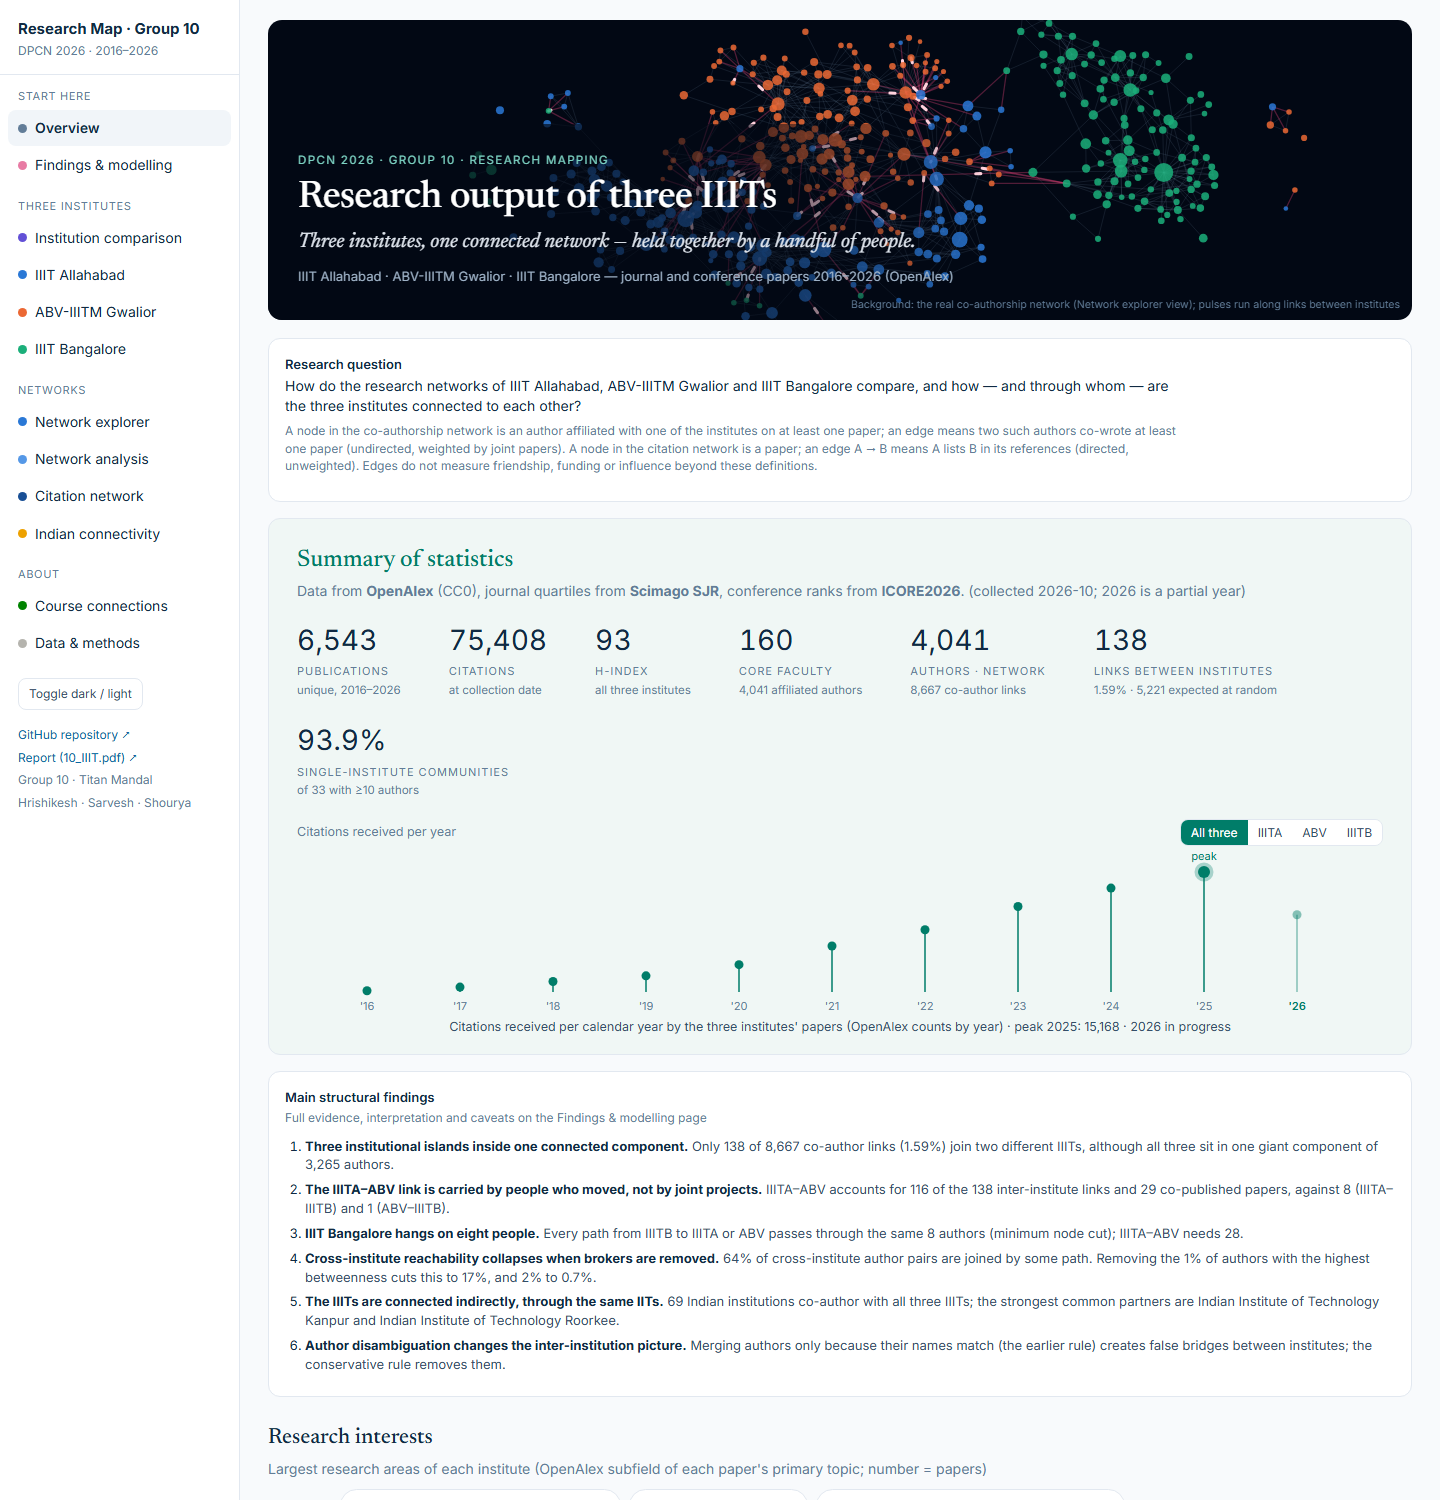
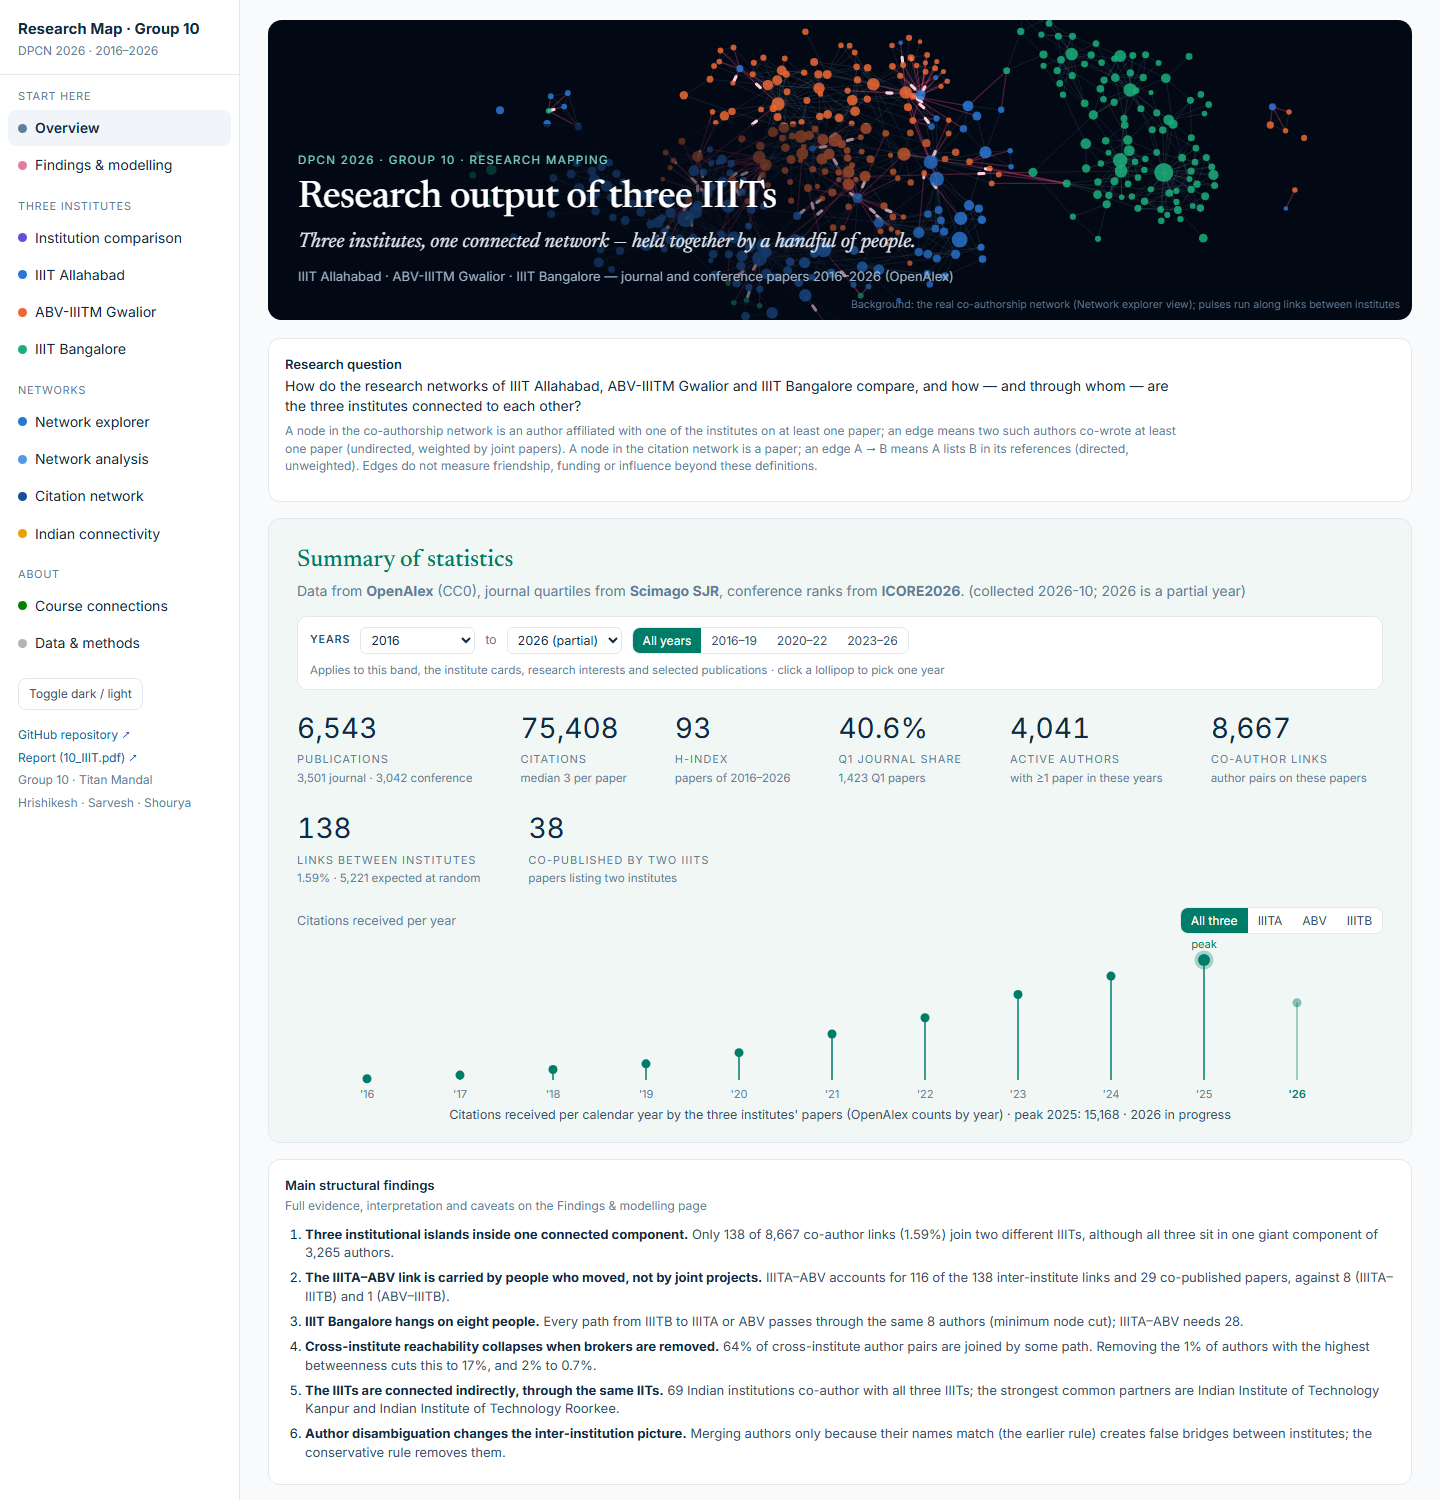
Dashboard: year selector for overview statistics
Overview statistics, institute cards, research-interest chips and the
selected-publications list can be filtered to any year range (From/To,
presets, click a lollipop, or ?years=YYYY-YYYY). Values are recomputed in
the browser from per-paper records; all-years values equal the pipeline
results and year subsets were checked against pandas.

diff --git a/part4_dashboard.py b/part4_dashboard.py
@@ -117,6 +117,31 @@ def publication_list(df, n=10):
     return out
 
 
+def yearly_data(df, adf, nodes, years):
+    """Compact per-paper records so the page can recompute statistics for any
+    year range: [year, institute bitmask, is_conference, is_Q1, citations,
+    [author indices]]. Authors are anonymous indices with their main institute;
+    co-author links are the author pairs of each paper, exactly as in part2."""
+    bit = {i: 1 << k for k, i in enumerate(C.INST_NAMES)}
+    mask = df.groupby("openalex_id")["institution"].apply(lambda s: sum(bit[i] for i in set(s)))
+    ids = sorted(adf["author_id"].unique())
+    idx = {a: k for k, a in enumerate(ids)}
+    main = [C.INST_NAMES.index(nodes[a]["institution"]) if a in nodes else -1 for a in ids]
+    auth = adf.drop_duplicates(["openalex_id", "author_id"]).groupby("openalex_id")["author_id"].apply(
+        lambda s: sorted(idx[a] for a in s)).to_dict()
+    papers = [[int(r.year), int(mask[r.openalex_id]), int(r.type == "conference"),
+               int(r.type == "journal" and r.quartile == "Q1"), int(r.citations), auth.get(r.openalex_id, [])]
+              for r in A.unique_papers(df).itertuples()]
+    subs = {}
+    for inst in C.INST_NAMES:
+        s = df[(df["institution"] == inst) & (df["subfield"] != "")]
+        t = s.groupby(["subfield", "year"]).size().unstack(fill_value=0).reindex(columns=years, fill_value=0)
+        t = t[t.sum(axis=1) >= 5]
+        subs[inst] = {k: [int(v) for v in row] for k, row in t.iterrows()}
+    top = {str(y): publication_list(df[df["year"] == y]) for y in years}
+    return {"papers": papers, "author_main": main, "subfields": subs, "top_by_year": top}
+
+
 def explorer_graph(o, nd):
     """Co-authorship subgraph for the Network Explorer: the most connected
     authors of each institute plus EVERY author with a co-author at another
@@ -243,6 +268,7 @@ def build_data(o):
     D["cites_by_year"] = citations_by_year(df, years)
     D["partner_cards"] = partner_cards(o["indian"])
     D["publications"] = publication_list(df)
+    D["yearly"] = yearly_data(df, adf, o["auth_metrics"].get("nodes", {}), years)
     S = o["structure"]
     D["structure"] = S
     if nodes and S:
@@ -331,6 +357,9 @@ h2.secttl{font-size:22px;margin:26px 0 4px}
 .seg{display:inline-flex;border:1px solid var(--border);border-radius:8px;overflow:hidden}
 .seg button{border:0;background:var(--surface);color:var(--text-2);font:inherit;font-size:12px;padding:4px 10px;cursor:pointer}
 .seg button.on{background:var(--teal,#2a9d8f);color:#fff}
+.yearbar{display:flex;flex-wrap:wrap;align-items:center;gap:8px 10px;margin:14px 0 2px;padding:10px 12px;background:var(--surface);border:1px solid var(--border);border-radius:10px;font-size:12.5px}
+.yearbar .ylab{font-weight:600;color:var(--text-2);letter-spacing:.06em;text-transform:uppercase;font-size:11px}
+.yearbar .ynote{font-size:11.5px;flex-basis:100%}
 /* interest chips */
 .chiprow{display:flex;flex-wrap:wrap;gap:8px;align-items:center;margin-bottom:10px}
 .chiprow .lbl{width:64px;font-size:12px;font-weight:600;color:var(--text-2)}
@@ -465,6 +494,12 @@ BODY = r"""
   <section class="statpanel">
     <h2 class="serif">Summary of statistics</h2>
     <p class="muted">Data from <b>OpenAlex</b> (CC0), journal quartiles from <b>Scimago SJR</b>, conference ranks from <b>ICORE2026</b>. <span id="stat-upd"></span></p>
+    <div class="yearbar" id="yearbar">
+      <span class="ylab">Years</span>
+      <select id="y-from" aria-label="From year"></select><span class="muted">to</span><select id="y-to" aria-label="To year"></select>
+      <span class="seg" id="y-presets"></span>
+      <span class="muted ynote">Applies to this band, the institute cards, research interests and selected publications · click a lollipop to pick one year</span>
+    </div>
     <div class="kpis" id="ov-kpis"></div>
     <div class="lolli-head"><span class="muted">Citations received per year</span><span class="seg" id="lolli-sel"></span></div>
     <svg id="lolli" role="img" aria-label="Citations received per year"></svg>
@@ -488,7 +523,7 @@ BODY = r"""
   </div>
   <div class="card" style="margin-bottom:16px"><h3>Research area breakdown</h3><div class="note">% of each institution's papers per OpenAlex field</div><div class="cw tall"><canvas id="c-fields"></canvas></div></div>
   <h2 class="serif secttl">Selected major publications</h2>
-  <p class="muted" style="margin-bottom:10px">The 10 most-cited papers (OpenAlex citation count at collection date). Authors of the three institutes in bold; ↗ opens the DOI.</p>
+  <p class="muted" style="margin-bottom:10px">The 10 most-cited papers of <b id="pub-yrs"></b> (OpenAlex citation count at collection date). Authors of the three institutes in bold; ↗ opens the DOI.</p>
   <div class="publist" id="publist"></div>
 </section>
 <section class="page" id="p-findings">
@@ -732,11 +767,6 @@ const pct = x => (x*100).toFixed(x<0.01?1:0)+"%";
 function renderOverview(){
   const S = Object.fromEntries(D.summary.map(s=>[s.institution,s]));
   document.getElementById("ov-find").innerHTML=(ST.findings||[]).map(f=>`<li><b>${esc(f.title)}.</b> <span>${esc(f.observation)}</span></li>`).join("")||"<li class='muted'>Run part5b_network_structure.py.</li>";
-  document.getElementById("ov-tiles").innerHTML = INST.map(i=>{
-    const s=S[i]; return `<div class="card tile"><div class="lab"><span class="swatch" style="background:${col(i)}"></span>${i}</div>
-      <div class="val">${fmt(s.papers)} papers</div>
-      <div class="foot">${fmt(s.journal_papers)} journal · ${fmt(s.conference_papers)} conference · ${s.q1_journal_pct}% of journal papers in Q1</div>
-      <div class="foot">${fmt(s.citations)} citations (median ${s.median_citations}) · institutional h-index ${s.h_index} · ${s.core_faculty} core faculty</div></div>`;}).join("");
   chart("c-trend",{type:"line",data:{labels:YEARS,datasets:INST.map(i=>({label:i,
       data:YEARS.map((y,k)=>D.trend[i].journal[k]+D.trend[i].conference[k]),
       borderColor:col(i),backgroundColor:col(i),borderWidth:2,pointRadius:3,pointHoverRadius:5,tension:0,
@@ -748,7 +778,7 @@ function renderOverview(){
   chart("c-fields",{type:"bar",data:{labels:D.fields.labels,datasets:INST.map(i=>({label:i,data:D.fields.values[i],
       backgroundColor:col(i),borderRadius:4,borderSkipped:"start",categoryPercentage:.75,barPercentage:.9}))},
       options:baseOpts({scales:{y:{title:{display:true,text:"% of papers",color:css("--text-2")}}}})});
-  renderKpis(); renderLolli("All"); renderChips(); renderMarquee(); renderPubs();
+  setupYears(); renderMarquee();
   setTimeout(renderHero, 30);
 }
 
@@ -756,19 +786,64 @@ function renderOverview(){
 const initials = n => n.replace(/\(.*?\)/g,"").split(/[\s,&-]+/).filter(w=>w.length>2&&!/^(of|and|the|for)$/i.test(w)).slice(0,3).map(w=>w[0].toUpperCase()).join("");
 const CLUSTER_COL = {"IIT":"#2a78d6","NIT":"#eb6834","IIIT":"#1baf7a","IISER/IISc/NISER":"#6250d6","Central University":"#eda100",
   "State/Private University":"#8a6f3a","Industry":"#e87ba4","Medical":"#b3261e","CSIR":"#008300","Govt/Other Research":"#52514e"};
-function renderKpis(){
-  const all=D.summary.find(s=>s.institution.startsWith("All"))||{}, co=ST.coauthorship||{}, mx=ST.mixing||{};
-  const cs=ST.communities||{};
-  const k=[[fmt(all.papers),"publications","unique, 2016–2026"],[fmt(all.citations),"citations","at collection date"],[all.h_index,"h-index","all three institutes"],
-    [fmt(all.core_faculty),"core faculty",`${fmt(all.affiliated_authors)} affiliated authors`],
-    [fmt(co.nodes),"authors · network",`${fmt(co.edges)} co-author links`],
-    [`${fmt(mx.inter_links_total)}`,"links between institutes",`${mx.inter_share_pct}% · ${fmt(Math.round(mx.inter_links_expected_total))} expected at random`],
-    [(cs.single_institute_communities_pct??"–")+"%","single-institute communities",`of ${cs.communities_10plus} with ≥10 authors`]];
-  document.getElementById("ov-kpis").innerHTML=k.map(([v,l,d])=>`<div><b>${v??"–"}</b><span>${l}</span><small>${d}</small></div>`).join("");
+// ── Year filter (Overview) ─────────────────────────────
+let YR=[YEARS[0],YEARS[YEARS.length-1]], LOLLI="All";
+const isAll=()=>YR[0]===YEARS[0]&&YR[1]===YEARS[YEARS.length-1];
+const hidx=c=>{ const s=c.slice().sort((a,b)=>b-a); let h=0; while(h<s.length&&s[h]>=h+1) h++; return h; };
+const median=c=>{ if(!c.length) return 0; const s=c.slice().sort((a,b)=>a-b), m=s.length>>1; return s.length%2?s[m]:(s[m-1]+s[m])/2; };
+function yearStats(bit){
+  const Y=D.yearly, P=Y.papers.filter(p=>p[0]>=YR[0]&&p[0]<=YR[1]&&(!bit||(p[1]&bit)));
+  const cites=P.map(p=>p[4]), j=P.filter(p=>!p[2]), authors=new Set(), links=new Set(); let inter=0, copub=0;
+  P.forEach(p=>{ const a=p[5]; a.forEach(x=>authors.add(x)); if((p[1]&(p[1]-1))!==0) copub++;
+    for(let i=0;i<a.length;i++) for(let k=i+1;k<a.length;k++){ const key=a[i]*8192+a[k];
+      if(!links.has(key)){ links.add(key); if(Y.author_main[a[i]]!==Y.author_main[a[k]]) inter++; } } });
+  return {n:P.length, j:j.length, c:P.length-j.length, q1:j.filter(p=>p[3]).length, cites, sum:cites.reduce((x,y)=>x+y,0),
+          h:hidx(cites), med:median(cites), authors:authors.size, links:links.size, inter, copub};
+}
+function setupYears(){
+  const f=document.getElementById("y-from"), t=document.getElementById("y-to");
+  const opts=YEARS.map(y=>`<option value="${y}">${y}${y===D.meta.partial_year?" (partial)":""}</option>`).join("");
+  f.innerHTML=opts; t.innerHTML=opts;
+  const presets=[["All years",YEARS[0],YEARS[YEARS.length-1]],["2016–19",2016,2019],["2020–22",2020,2022],["2023–26",2023,2026]];
+  const pre=document.getElementById("y-presets");
+  pre.innerHTML=presets.map(([l,a,b])=>`<button data-a="${a}" data-b="${b}">${l}</button>`).join("");
+  pre.onclick=e=>{ if(e.target.dataset.a) setYears(+e.target.dataset.a,+e.target.dataset.b); };
+  f.onchange=()=>setYears(+f.value,Math.max(+f.value,+t.value)); t.onchange=()=>setYears(Math.min(+f.value,+t.value),+t.value);
   document.getElementById("stat-upd").textContent="(collected "+D.meta.generated.slice(0,7)+"; 2026 is a partial year)";
   document.getElementById("foot-upd").textContent="last updated "+D.meta.generated;
+  const q=(new URLSearchParams(location.search).get("years")||"").match(/^(\d{4})(?:-(\d{4}))?$/);
+  if(q){ const a=+q[1], b=+(q[2]||q[1]); if(YEARS.includes(a)&&YEARS.includes(b)&&a<=b) YR=[a,b]; }
+  setYears(YR[0],YR[1]);
+}
+function setYears(a,b){
+  YR=[a,b]; document.getElementById("y-from").value=a; document.getElementById("y-to").value=b;
+  document.querySelectorAll("#y-presets button").forEach(x=>x.classList.toggle("on",+x.dataset.a===a&&+x.dataset.b===b));
+  renderKpis(); renderInstCards(); renderChips(); renderPubs(); renderLolli(LOLLI);
+}
+const yrLabel=()=>YR[0]===YR[1]?String(YR[0]):`${YR[0]}–${YR[1]}`;
+function renderKpis(){
+  if(!D.yearly){ document.getElementById("ov-kpis").innerHTML="<p class='muted'>Yearly data unavailable.</p>"; return; }
+  const s=yearStats(0), mx=ST.mixing||{}, all=isAll();
+  const k=[[fmt(s.n),"publications",`${fmt(s.j)} journal · ${fmt(s.c)} conference`],
+    [fmt(s.sum),"citations",`median ${s.med} per paper`],[s.h,"h-index",`papers of ${yrLabel()}`],
+    [s.j?(100*s.q1/s.j).toFixed(1)+"%":"–","Q1 journal share",`${fmt(s.q1)} Q1 papers`],
+    [fmt(s.authors),"active authors","with ≥1 paper in these years"],
+    [fmt(s.links),"co-author links","author pairs on these papers"],
+    [fmt(s.inter),"links between institutes",all?`${mx.inter_share_pct}% · ${fmt(Math.round(mx.inter_links_expected_total))} expected at random`:(s.links?(100*s.inter/s.links).toFixed(2)+"% of links":"–")],
+    [fmt(s.copub),"co-published by two IIITs","papers listing two institutes"]];
+  document.getElementById("ov-kpis").innerHTML=k.map(([v,l,d])=>`<div><b>${v??"–"}</b><span>${l}</span><small>${d}</small></div>`).join("");
+}
+function renderInstCards(){
+  const S=Object.fromEntries(D.summary.map(s=>[s.institution,s]));
+  document.getElementById("ov-tiles").innerHTML=INST.map((i,k)=>{
+    const s=yearStats(1<<k);
+    return `<div class="card tile"><div class="lab"><span class="swatch" style="background:${col(i)}"></span>${i} · ${yrLabel()}</div>
+      <div class="val">${fmt(s.n)} papers</div>
+      <div class="foot">${fmt(s.j)} journal · ${fmt(s.c)} conference · ${s.j?(100*s.q1/s.j).toFixed(1):"–"}% of journal papers in Q1</div>
+      <div class="foot">${fmt(s.sum)} citations (median ${s.med}) · h-index ${s.h} · ${fmt(s.authors)} active authors · ${S[i].core_faculty} core faculty (all years)</div></div>`;}).join("");
 }
 function renderLolli(which){
+  LOLLI=which; const inR=yr=>yr>=YR[0]&&yr<=YR[1];
   const C_=D.cites_by_year||{}, el=document.getElementById("lolli");
   const sel=document.getElementById("lolli-sel");
   sel.innerHTML=["All",...INST].map(i=>`<button data-i="${i}" class="${i===which?"on":""}">${i==="All"?"All three":AB[i]}</button>`).join("");
@@ -781,17 +856,23 @@ function renderLolli(which){
   const c=which==="All"?css("--teal")||"#007d69":col(which);
   const s=d3.select(el); s.selectAll("*").remove();
   const g=s.selectAll("g").data(full).join("g").attr("transform",d=>`translate(${x(d.yr)},0)`);
-  g.append("line").attr("y1",H-m.b).attr("y2",d=>y(d.v)).attr("stroke",c).attr("stroke-width",1.5).attr("opacity",d=>d.part?.45:1);
-  g.append("circle").attr("cy",d=>y(d.v)).attr("r",d=>d===peak?6:4.5).attr("fill",c).attr("opacity",d=>d.part?.45:1)
+  g.style("cursor","pointer").on("click",(e,d)=>setYears(d.yr,d.yr));
+  g.append("rect").attr("x",-14).attr("width",28).attr("y",m.t-14).attr("height",H-m.t+14).attr("fill","transparent");
+  g.append("line").attr("y1",H-m.b).attr("y2",d=>y(d.v)).attr("stroke",c).attr("stroke-width",1.5).attr("opacity",d=>!inR(d.yr)?.18:d.part?.45:1);
+  g.append("circle").attr("cy",d=>y(d.v)).attr("r",d=>d===peak?6:4.5).attr("fill",c).attr("opacity",d=>!inR(d.yr)?.18:d.part?.45:1)
     .attr("stroke",d=>d===peak?c:"none").attr("stroke-opacity",.3).attr("stroke-width",d=>d===peak?7:0)
-    .on("mousemove",(e,d)=>showTip(e,`<b>${d.yr}</b>${fmt(d.v)} citations received${d.part?" (year in progress)":""}`)).on("mouseleave",hideTip);
+    .on("mousemove",(e,d)=>showTip(e,`<b>${d.yr}</b>${fmt(d.v)} citations received${d.part?" (year in progress)":""}<br>click to show ${d.yr} only`)).on("mouseleave",hideTip);
   g.append("text").attr("y",H-6).attr("text-anchor","middle").attr("font-size",11).attr("fill",d=>d.part?c:css("--muted")).attr("font-weight",d=>d.part?600:400).text(d=>"'"+String(d.yr).slice(2));
   s.append("text").attr("x",x(peak.yr)).attr("y",y(peak.v)-12).attr("text-anchor","middle").attr("font-size",11).attr("fill",c).text("peak");
   document.getElementById("lolli-cap").innerHTML=`Citations received per calendar year by ${which==="All"?"the three institutes' papers":esc(which)+"'s papers"} (OpenAlex counts by year) · peak ${peak.yr}: ${fmt(peak.v)} · ${D.meta.partial_year} in progress`;
 }
 function renderChips(){
-  document.getElementById("chips").innerHTML=INST.map(i=>`<div class="chiprow"><span class="lbl"><span class="swatch" style="background:${col(i)}"></span>${AB[i]}</span>`+
-    (D.subfields[i]||[]).slice(0,8).map(x=>`<span class="chip">${esc(x.name)} <i>${fmt(x.papers)}</i></span>`).join("")+"</div>").join("");
+  const lo=YEARS.indexOf(YR[0]), hi=YEARS.indexOf(YR[1]);
+  document.getElementById("chips").innerHTML=INST.map(i=>{
+    const sf=Object.entries(((D.yearly||{}).subfields||{})[i]||{}).map(([n,v])=>({name:n,papers:v.slice(lo,hi+1).reduce((a,b)=>a+b,0)}))
+      .filter(x=>x.papers>0).sort((a,b)=>b.papers-a.papers).slice(0,8);
+    return `<div class="chiprow"><span class="lbl"><span class="swatch" style="background:${col(i)}"></span>${AB[i]}</span>`+
+      (sf.map(x=>`<span class="chip">${esc(x.name)} <i>${fmt(x.papers)}</i></span>`).join("")||"<span class='muted'>No papers in these years.</span>")+"</div>";}).join("");
 }
 function renderMarquee(){
   const P=D.partner_cards||[], tr=document.getElementById("mq-track");
@@ -802,7 +883,9 @@ function renderMarquee(){
   const html=P.map(card).join(""); tr.innerHTML=html+html;   // duplicated for a seamless loop
 }
 function renderPubs(){
-  const P=D.publications||[];
+  const T=(D.yearly||{}).top_by_year||{};
+  const P=isAll()?(D.publications||[]):YEARS.filter(y=>y>=YR[0]&&y<=YR[1]).flatMap(y=>T[y]||[]).sort((a,b)=>b.citations-a.citations).slice(0,10);
+  document.getElementById("pub-yrs").textContent=yrLabel();
   document.getElementById("publist").innerHTML=P.map(p=>{
     const doi=p.doi?(p.doi.startsWith("http")?p.doi:"https://doi.org/"+p.doi):"";
     const au=p.authors.map(a=>a.o?`<b>${esc(a.n)}</b>`:esc(a.n)).join(", ")+(p.more?`, … +${p.more} more`:"");

diff --git a/README.md b/README.md
@@ -101,7 +101,10 @@ instructor ([example](https://jfmendes-sciart.github.io/research.html)), with
 every element drawn from our own data:
 * a hero banner drawn from the real co-authorship network, with pulses along the
   links between institutes;
-* a summary-of-statistics band with a citations-per-year lollipop chart (peak and
+* a summary-of-statistics band with a **year selector** (From/To, period presets,
+  click a lollipop, or a link such as `?years=2016-2019`) that recomputes papers,
+  citations, h-index, Q1 share, active authors, co-author links and links between
+  institutes for the chosen years, plus a citations-per-year lollipop chart (peak and
   partial year marked);
 * research-interest chips per institute;
 * a scrolling strip of the main partner institutions;
